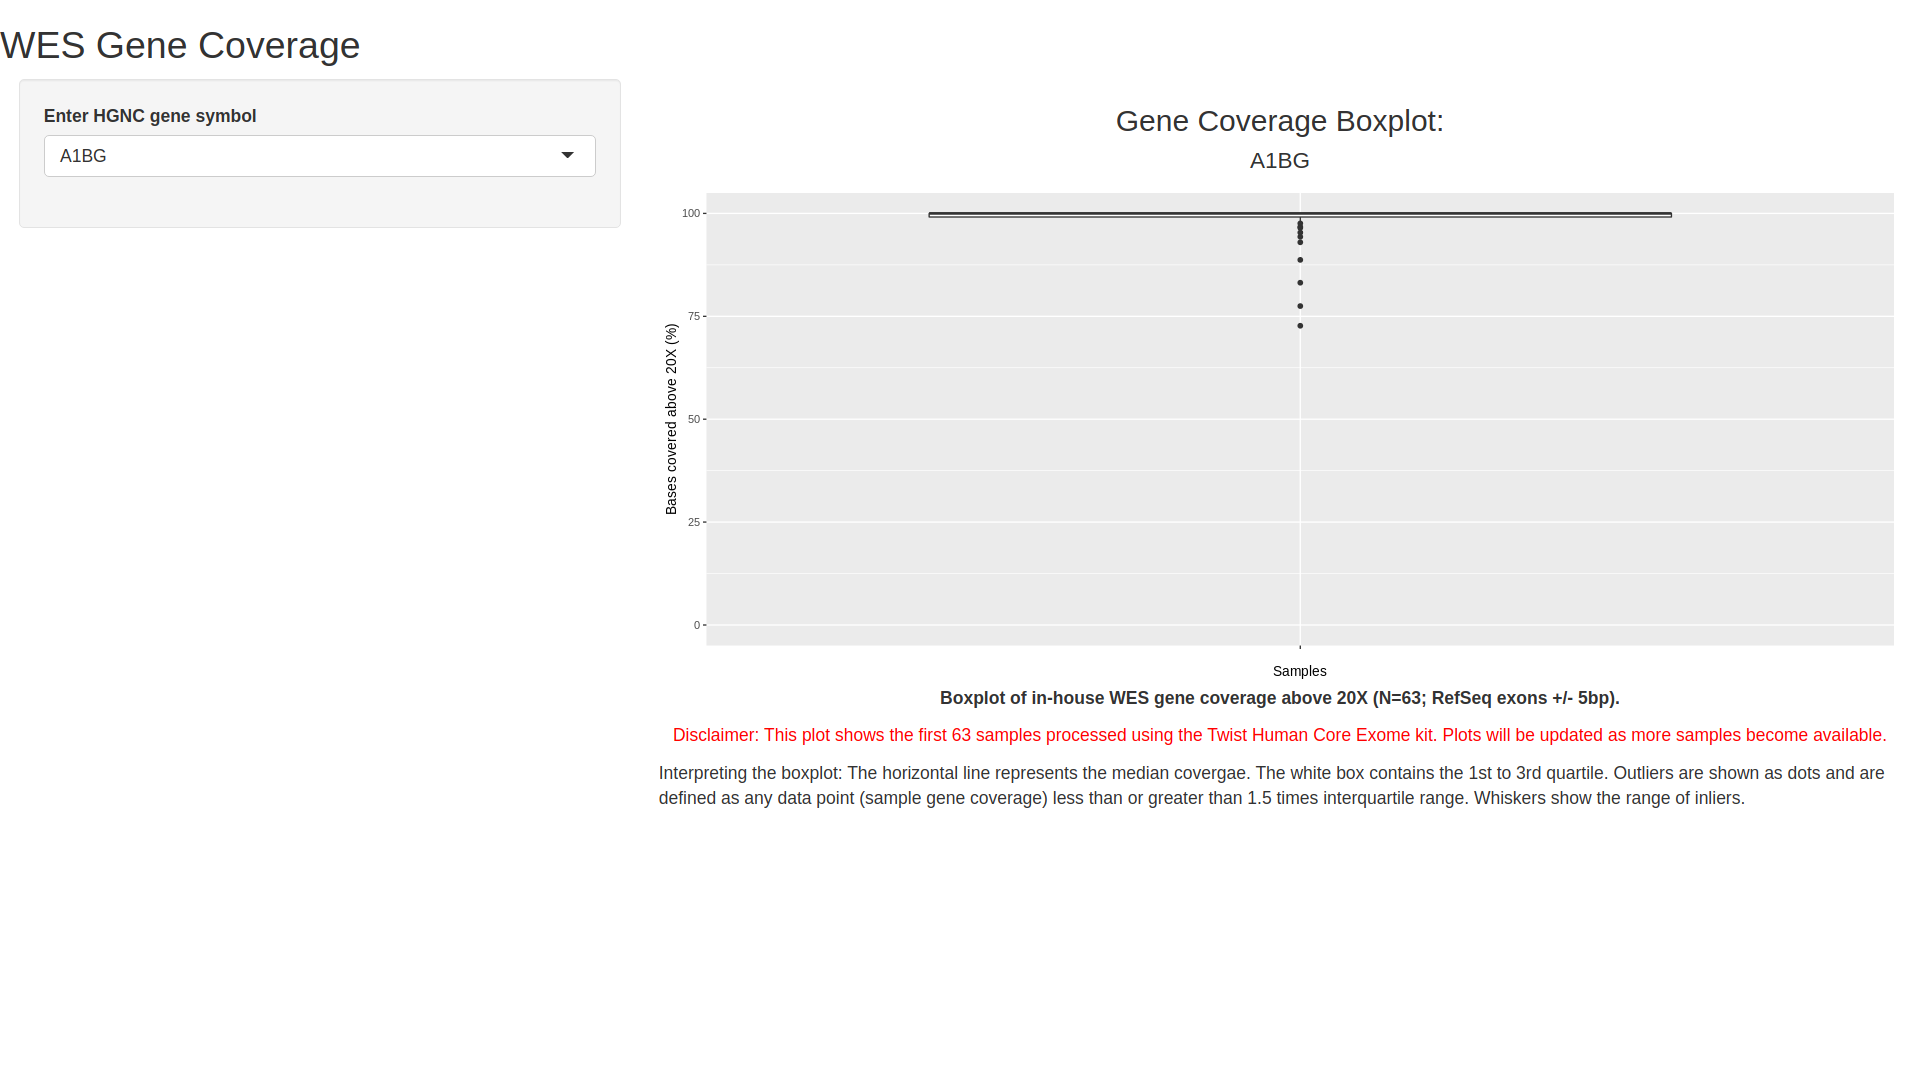
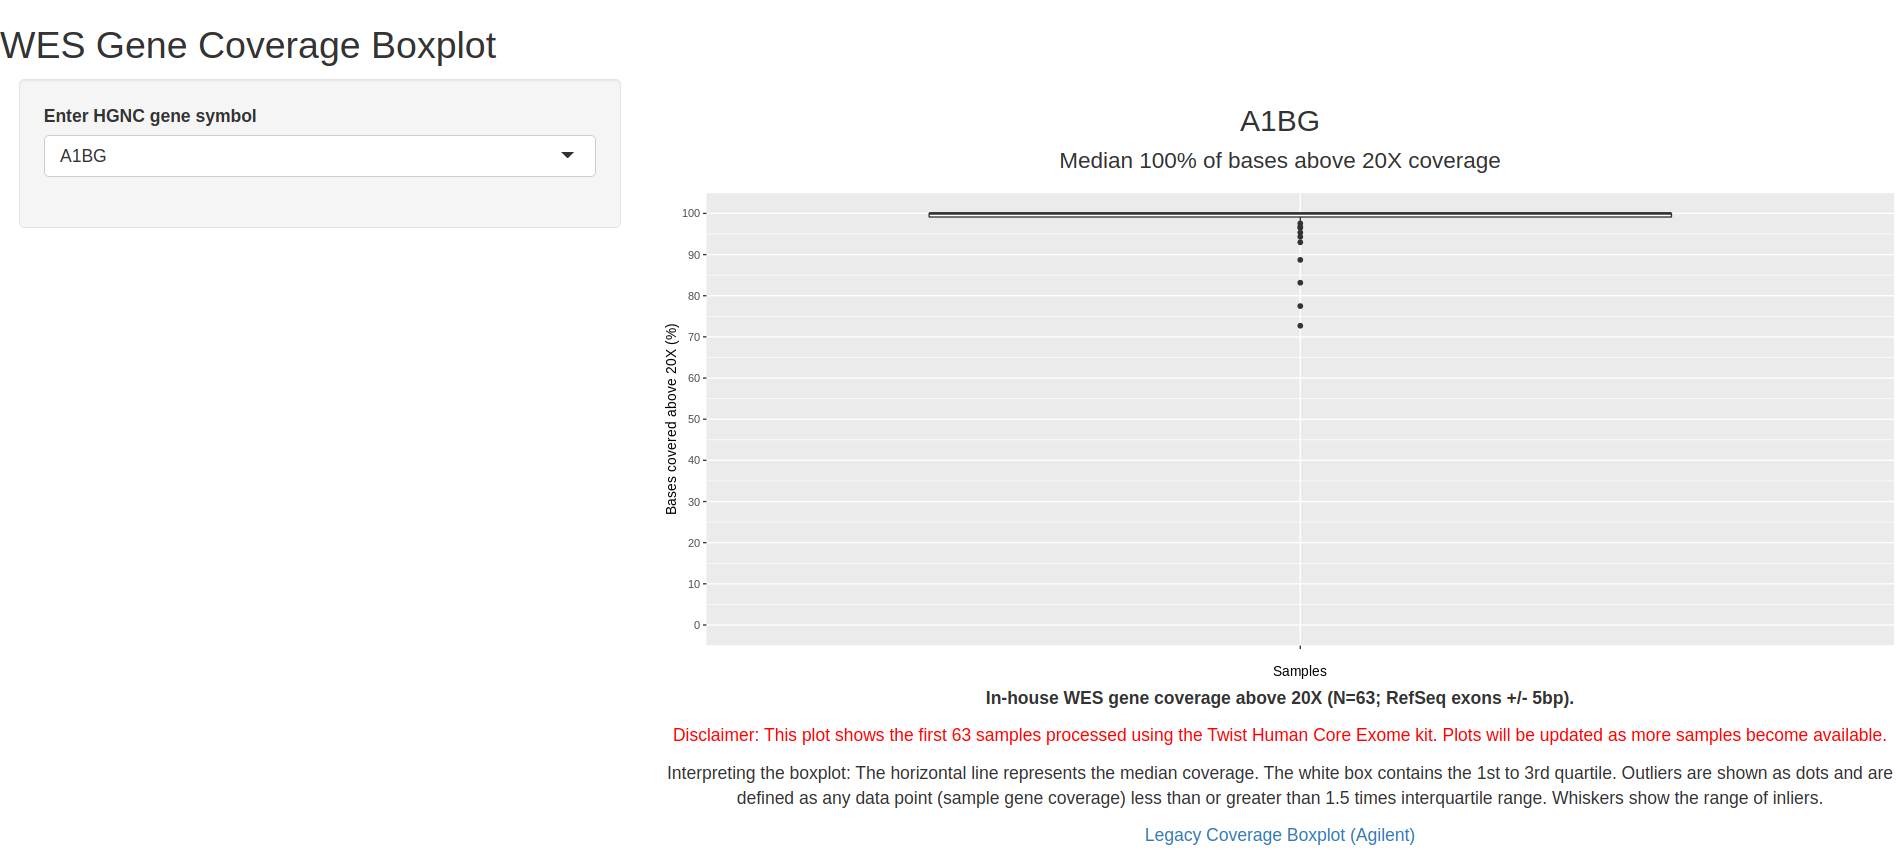
Display median under gene. Add link to legacy app. Update readme.

diff --git a/README.md b/README.md
@@ -1,19 +1,18 @@
-# coverage_boxplots
+# CovApp v1.1
 
-CovApp is a Shiny web app that shows gene coverage boxplot from in-house WES data. See [./CovApp/App.R](./CovApp/App.R) for application code.
+CovApp is an R shiny app that shows gene coverage boxplots for in-house WES data. See [./CovApp/App.R](./CovApp/App.R) for application code.
 
 ![coverage-app](./coverage_screen.png)
 
-## App Data
+## Data Sources
 
-CovApp app generates plots using data from [covtidy.txt](./CovApp/covtidy.txt) and [covtidy_genes.txt](./CovApp/covtidy_genes.txt). `covtidy.txt` lists coverage above 20X for genes in multiple samples whereas `covtidy_genes.txt` lists unique genes in `covtidy.txt`. Both files are created from *.chanjo_txt files output by the WES pipeline (see [create_covtidy.py](./create_covtidy/create_covtidy.py)). `covtidy.txt` has three fields:
+CovApp app renders plots using three source files:
 
-* Sample - Unique sample identifier
+* `covtidy.txt` lists the percentage coverage above 20X for each gene in each sample.
+* `covtidy_genes.txt` lists unique genes in covtidy.txt.
+* `covtidy_median.txt` lists the median percentage coverage above 20X for each gene across all samples.
 
-* above20X - Percentage gene coverage above 20X
-
-* Gene - Approved HGNC symbol
-
+All three source files are generated by [create_covtidy.py](./create_covtidy/create_covtidy.py), a script that requires *.chanjo_txt files output by the WES pipeline.
 
 ## Deployment
 
